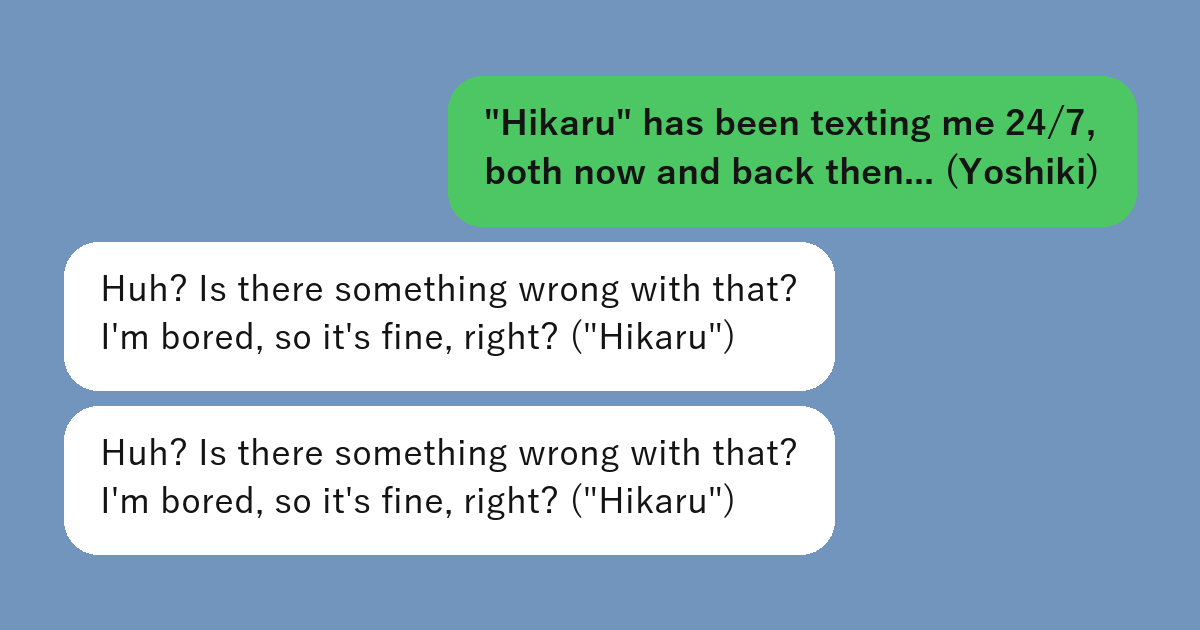
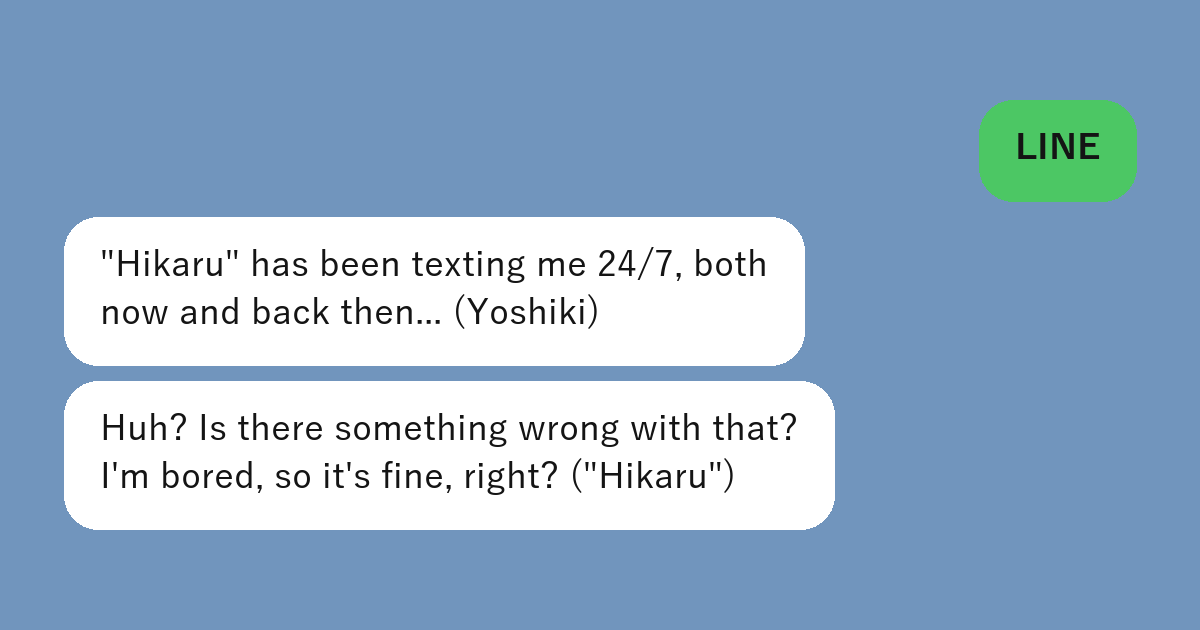
Update interaction 142 (en) text and OG card

Changed region(s): [[0.0308, 0.1206, 0.9558, 0.9048]]

diff --git a/m/142/en.html b/m/142/en.html
@@ -2,20 +2,20 @@
 <html lang="en">
 <head>
 <meta charset="UTF-8">
-<title>&quot;Hikaru&quot; has been texting me 24/7, both now and back then... (Yoshiki)</title>
+<title>LINE</title>
 <link rel="canonical" href="https://line.hikaru.monster/?lang=en&m=142">
 <meta property="og:type" content="website">
 <meta property="og:site_name" content="HGSN Line Bot">
-<meta property="og:title" content="&quot;Hikaru&quot; has been texting me 24/7, both now and back then... (Yoshiki)">
-<meta property="og:description" content="Huh? Is there something wrong with that? I&#x27;m bored, so it&#x27;s fine, right? (&quot;Hikaru&quot;)
+<meta property="og:title" content="LINE">
+<meta property="og:description" content="&quot;Hikaru&quot; has been texting me 24/7, both now and back then... (Yoshiki)
 Huh? Is there something wrong with that? I&#x27;m bored, so it&#x27;s fine, right? (&quot;Hikaru&quot;)">
 <meta property="og:image" content="https://line.hikaru.monster/og/142-en.png">
 <meta property="og:image:width" content="1200">
 <meta property="og:image:height" content="630">
 <meta property="og:url" content="https://line.hikaru.monster/m/142/en.html">
 <meta name="twitter:card" content="summary_large_image">
-<meta name="twitter:title" content="&quot;Hikaru&quot; has been texting me 24/7, both now and back then... (Yoshiki)">
-<meta name="twitter:description" content="Huh? Is there something wrong with that? I&#x27;m bored, so it&#x27;s fine, right? (&quot;Hikaru&quot;)
+<meta name="twitter:title" content="LINE">
+<meta name="twitter:description" content="&quot;Hikaru&quot; has been texting me 24/7, both now and back then... (Yoshiki)
 Huh? Is there something wrong with that? I&#x27;m bored, so it&#x27;s fine, right? (&quot;Hikaru&quot;)">
 <meta name="twitter:image" content="https://line.hikaru.monster/og/142-en.png">
 <meta name="theme-color" content="#7195bd">
